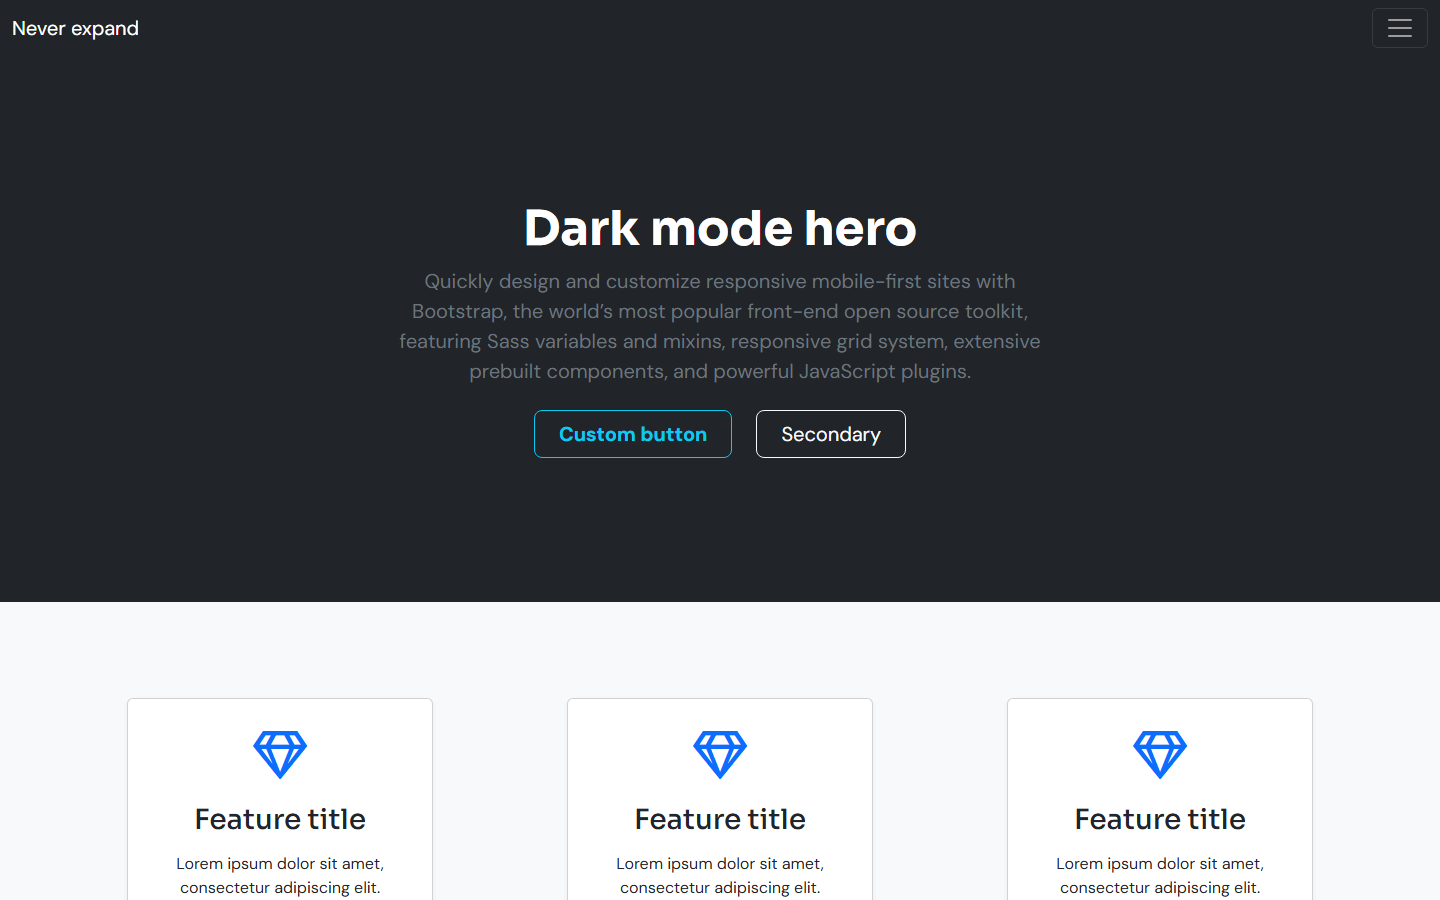
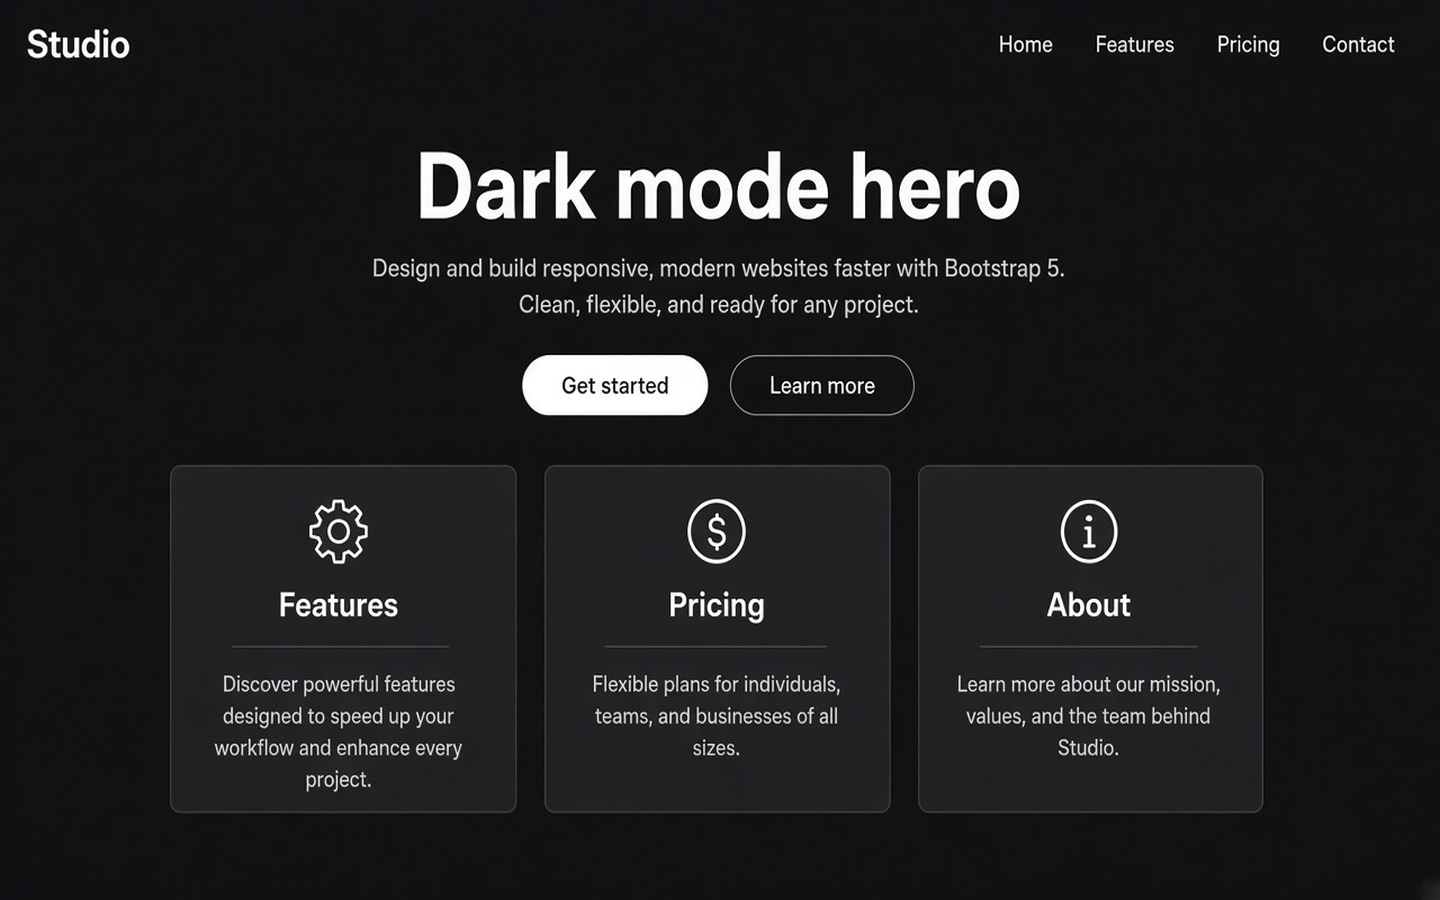
c

diff --git a/src/app/products/[slug]/page.js b/src/app/products/[slug]/page.js
@@ -4,8 +4,8 @@ import AddToCartControls from "@/components/AddToCartControls";
 import AffiliateOfferCta from "@/components/AffiliateOfferCta";
 import Breadcrumbs from "@/components/Breadcrumbs";
 import JsonLd from "@/components/JsonLd";
-import PlaceholderLabel from "@/components/PlaceholderLabel";
 import PreviewGallery from "@/components/PreviewGallery";
+import ProductSpecsMenu, { ProductSpec } from "@/components/ProductSpecsMenu";
 import PriceTag from "@/components/PriceTag";
 import { getPostByProductSlug } from "@/data/posts";
 import {
@@ -52,18 +52,6 @@ function productBreadcrumbs(product) {
     { name: "Shop", path: "/shop" },
     { name: productTitle(product), path: `/products/${product.slug}` },
   ];
-}
-
-function Spec({ title, placeholder, children }) {
-  return (
-    <section className="rounded-3xl border border-border bg-surface p-6">
-      <div className="flex flex-wrap items-center justify-between gap-3">
-        <h2 className="text-lg font-semibold text-ink">{title}</h2>
-        {placeholder ? <PlaceholderLabel /> : null}
-      </div>
-      <div className="mt-4 space-y-3 text-sm leading-6 text-muted">{children}</div>
-    </section>
-  );
 }
 
 function DirectProductPage({ product }) {
@@ -145,9 +133,9 @@ function DirectProductPage({ product }) {
       </div>
 
       {hasSpecs ? (
-        <div className={`grid gap-4 md:grid-cols-2 ${compact ? "mt-8" : "mt-16 gap-6"}`}>
+        <ProductSpecsMenu compact={compact} aside={topics} asideTitle="Related searches">
           {contents.length > 0 ? (
-            <Spec
+            <ProductSpec
               title={product.subscriptionTerm ? "What's included" : "Included files"}
               placeholder={fieldIsPlaceholder(product, "contents")}
             >
@@ -159,18 +147,18 @@ function DirectProductPage({ product }) {
                   </li>
                 ))}
               </ul>
-            </Spec>
+            </ProductSpec>
           ) : null}
 
           {product.subscriptionTerm ? (
-            <Spec title="Subscription term" placeholder={fieldIsPlaceholder(product, "plan")}>
+            <ProductSpec title="Subscription term" placeholder={fieldIsPlaceholder(product, "plan")}>
               <p className="text-2xl font-semibold text-ink">{product.subscriptionTerm}</p>
               <p>Listed catalogue term. Confirm when the year starts after a verified payment.</p>
-            </Spec>
+            </ProductSpec>
           ) : null}
 
           {product.bootstrapVersion ? (
-            <Spec
+            <ProductSpec
               title="Bootstrap version"
               placeholder={fieldIsPlaceholder(product, "bootstrapVersion")}
             >
@@ -181,46 +169,31 @@ function DirectProductPage({ product }) {
                   The name of this product mentions 1000 templates. That count is still a placeholder.
                 </p>
               ) : null}
-            </Spec>
+            </ProductSpec>
           ) : null}
 
           {product.fileFormat ? (
-            <Spec title="File format" placeholder={fieldIsPlaceholder(product, "fileFormat")}>
+            <ProductSpec title="File format" placeholder={fieldIsPlaceholder(product, "fileFormat")}>
               <p className="text-2xl font-semibold text-ink">{product.fileFormat}</p>
               <p>{product.fileFormatNote}</p>
               {fieldIsPlaceholder(product, "recordCount") ? (
                 <p>The number of contact records is still a placeholder.</p>
               ) : null}
-            </Spec>
-          ) : null}
-
-          {topics.length > 0 ? (
-            <Spec title="Related searches">
-              <ul className="flex flex-wrap gap-2">
-                {topics.map((topic) => (
-                  <li
-                    key={topic}
-                    className="rounded-full border border-border bg-background px-2.5 py-1 text-xs font-medium text-ink"
-                  >
-                    {topic}
-                  </li>
-                ))}
-              </ul>
-            </Spec>
+            </ProductSpec>
           ) : null}
 
           {compatibility.length > 0 ? (
-            <Spec title="Compatibility" placeholder={fieldIsPlaceholder(product, "compatibility")}>
+            <ProductSpec title="Compatibility" placeholder={fieldIsPlaceholder(product, "compatibility")}>
               <ul className="list-disc space-y-2 pl-5">
                 {compatibility.map((item) => (
                   <li key={item}>{item}</li>
                 ))}
               </ul>
-            </Spec>
+            </ProductSpec>
           ) : null}
 
           {product.licence ? (
-            <Spec title="Usage licence" placeholder={fieldIsPlaceholder(product, "licence")}>
+            <ProductSpec title="Usage licence" placeholder={fieldIsPlaceholder(product, "licence")}>
               <p>{product.licence.summary}</p>
               {licencePoints.length > 0 ? (
                 <ul className="list-disc space-y-2 pl-5">
@@ -229,11 +202,11 @@ function DirectProductPage({ product }) {
                   ))}
                 </ul>
               ) : null}
-            </Spec>
+            </ProductSpec>
           ) : null}
 
           {product.support ? (
-            <Spec title="Support" placeholder={fieldIsPlaceholder(product, "support")}>
+            <ProductSpec title="Support" placeholder={fieldIsPlaceholder(product, "support")}>
               <p>{product.support.summary}</p>
               {supportPoints.length > 0 ? (
                 <ul className="list-disc space-y-2 pl-5">
@@ -242,9 +215,9 @@ function DirectProductPage({ product }) {
                   ))}
                 </ul>
               ) : null}
-            </Spec>
+            </ProductSpec>
           ) : null}
-        </div>
+        </ProductSpecsMenu>
       ) : null}
     </div>
   );
@@ -298,28 +271,18 @@ function AffiliateProductPage({ product }) {
         </div>
       </div>
 
-      <div className="mt-16 grid gap-6 md:grid-cols-2">
-        <Spec title="Overview">
+      <ProductSpecsMenu aside={topics} asideTitle="Related searches">
+        <ProductSpec title="Overview">
           <p>{product.description}</p>
-        </Spec>
-
-        {topics.length > 0 ? (
-          <Spec title="Topics">
-            <ul className="list-disc space-y-2 pl-5">
-              {topics.map((topic) => (
-                <li key={topic}>{topic}</li>
-              ))}
-            </ul>
-          </Spec>
-        ) : null}
+        </ProductSpec>
 
         {product.audience ? (
-          <Spec title="Intended audience">
+          <ProductSpec title="Intended audience">
             <p>{product.audience}</p>
-          </Spec>
+          </ProductSpec>
         ) : null}
 
-        <Spec title="Vendor information">
+        <ProductSpec title="Vendor information">
           <p>
             Vendor: {product.vendor}. Format: {product.format}. Language: {product.language}.
           </p>
@@ -331,8 +294,8 @@ function AffiliateProductPage({ product }) {
             Checkout, delivery, and support are handled by the vendor, not through the Afordz cart
             or download flow.
           </p>
-        </Spec>
-      </div>
+        </ProductSpec>
+      </ProductSpecsMenu>
     </div>
   );
 }

diff --git a/src/components/ProductSpecsMenu.js b/src/components/ProductSpecsMenu.js
@@ -1,0 +1,124 @@
+"use client";
+
+import { Children, useId, useRef, useState } from "react";
+import PlaceholderLabel from "@/components/PlaceholderLabel";
+
+export function ProductSpec({ children }) {
+  return children;
+}
+
+export default function ProductSpecsMenu({
+  children,
+  compact = false,
+  aside = [],
+  asideTitle = "Related searches",
+}) {
+  const items = Children.toArray(children).filter(Boolean);
+  const chips = Array.isArray(aside) ? aside : [];
+  const [active, setActive] = useState(0);
+  const tabs = useRef([]);
+  const uid = useId();
+
+  if (items.length === 0 && chips.length === 0) {
+    return null;
+  }
+
+  function select(index) {
+    const next = (index + items.length) % items.length;
+    setActive(next);
+    tabs.current[next]?.focus();
+  }
+
+  function onKeyDown(event) {
+    if (event.key === "ArrowRight") {
+      event.preventDefault();
+      select(active + 1);
+    }
+    if (event.key === "ArrowLeft") {
+      event.preventDefault();
+      select(active - 1);
+    }
+  }
+
+  const selected = items[active];
+  const title = selected?.props?.title;
+  const placeholder = selected?.props?.placeholder;
+  const showAside = chips.length > 0;
+
+  return (
+    <section
+      className={`rounded-3xl border border-border bg-surface p-6 ${compact ? "mt-8" : "mt-16"}`}
+    >
+      <div
+        className={
+          showAside ? "grid items-start gap-8 md:grid-cols-[minmax(0,1fr)_14rem]" : undefined
+        }
+      >
+        {items.length > 0 ? (
+          <div>
+            <div
+              role="tablist"
+              aria-label="Product details"
+              className="flex flex-wrap gap-1.5"
+              onKeyDown={onKeyDown}
+            >
+              {items.map((item, index) => {
+                const selectedTab = index === active;
+                return (
+                  <button
+                    key={item.props.title}
+                    ref={(node) => {
+                      tabs.current[index] = node;
+                    }}
+                    id={`${uid}-tab-${index}`}
+                    type="button"
+                    role="tab"
+                    aria-selected={selectedTab}
+                    aria-controls={`${uid}-panel`}
+                    tabIndex={selectedTab ? 0 : -1}
+                    onClick={() => setActive(index)}
+                    className={`rounded-full border px-3 py-1.5 text-left text-xs font-semibold sm:text-sm ${
+                      selectedTab
+                        ? "border-ink bg-ink text-background"
+                        : "border-border bg-background text-ink hover:border-ink/40"
+                    }`}
+                  >
+                    {item.props.title}
+                  </button>
+                );
+              })}
+            </div>
+            <div
+              role="tabpanel"
+              id={`${uid}-panel`}
+              aria-labelledby={`${uid}-tab-${active}`}
+              className="mt-5 space-y-3 text-sm leading-6 text-muted"
+            >
+              <div className="flex flex-wrap items-center justify-between gap-3">
+                <h2 className="text-lg font-semibold text-ink">{title}</h2>
+                {placeholder ? <PlaceholderLabel /> : null}
+              </div>
+              {selected}
+            </div>
+          </div>
+        ) : null}
+
+        {showAside ? (
+          <aside className="md:border-l md:border-border md:pl-6">
+            <h2 className="text-lg font-semibold text-ink">{asideTitle}</h2>
+            <ul className="mt-4 flex flex-wrap gap-2">
+              {chips.map((topic) => (
+                <li
+                  key={topic}
+                  className="rounded-full border border-border bg-background px-2.5 py-1 text-xs font-medium text-ink"
+                >
+                  {topic}
+                </li>
+              ))}
+            </ul>
+          </aside>
+        ) : null}
+      </div>
+    </section>
+  );
+}

diff --git a/src/data/products.js b/src/data/products.js
@@ -89,9 +89,9 @@ export const products = [
         id: "dark-hero",
         label: "Dark hero",
         variant: "business",
-        src: "/previews/dark-hero.png",
-        alt: "Screenshot of the top of BS500DEAL/index1.html, a dark Bootstrap hero with feature cards",
-        summary: "BS500DEAL/index1.html. A dark hero, two buttons, and a row of feature cards.",
+        src: "/previews/dark-hero-studio.png",
+        alt: "Dark Bootstrap hero with Get started and Learn more buttons and Features, Pricing, About cards",
+        summary: "A dark hero, two buttons, and a row of feature cards.",
       },
       {
         id: "cover-header",
